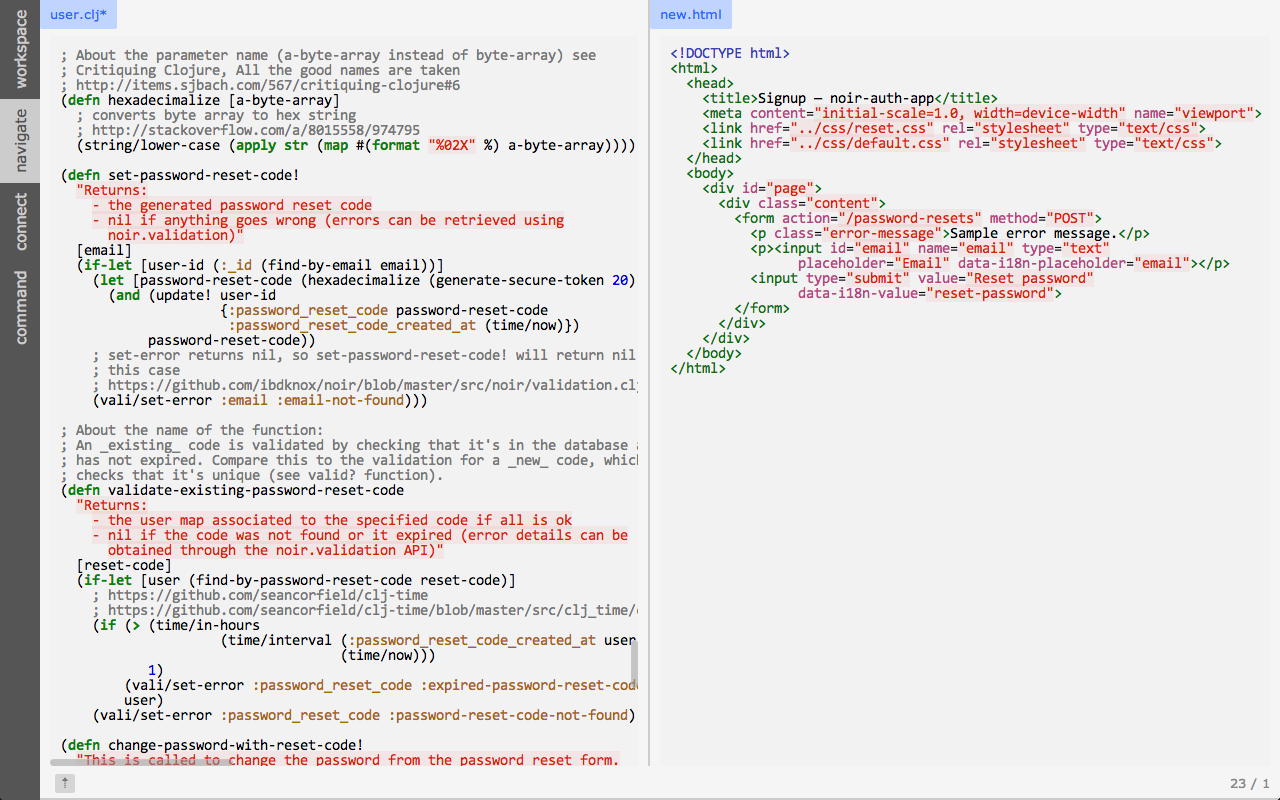
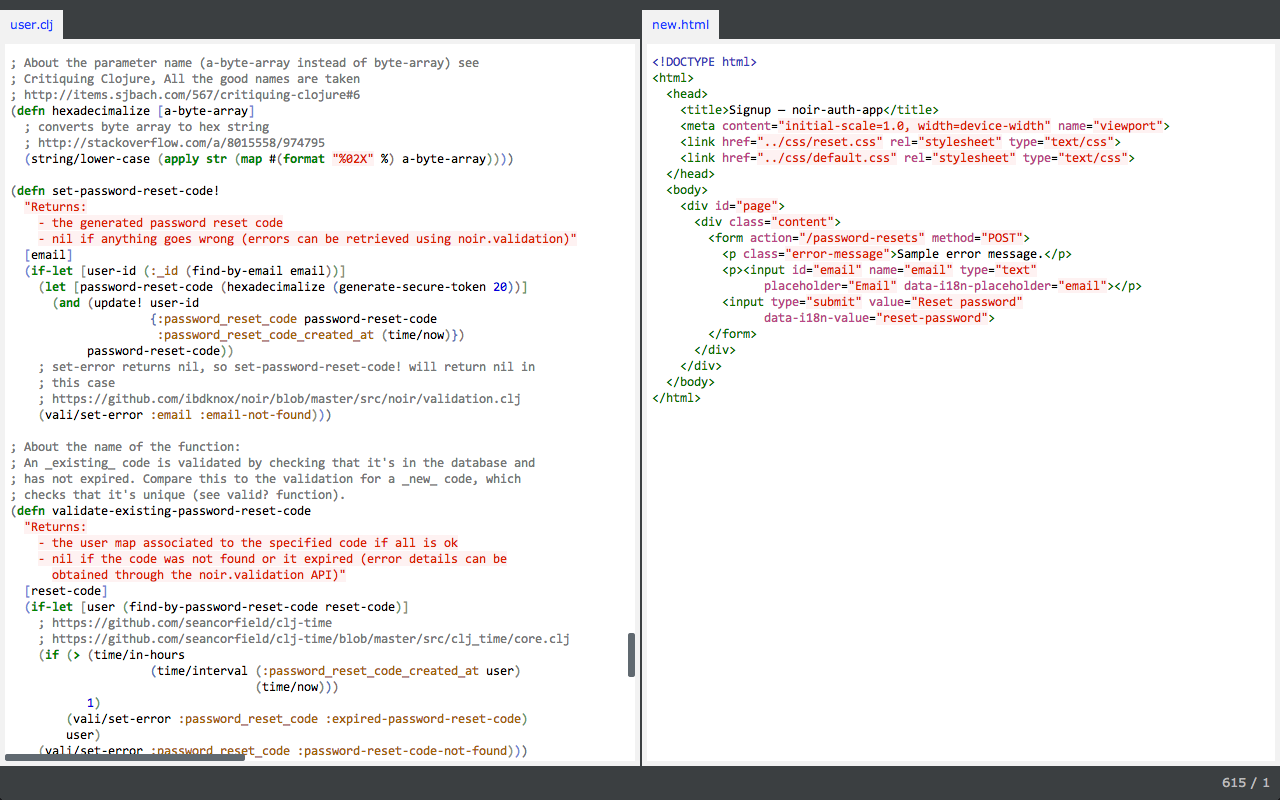
Now available as a plugin for Light Table 0.6

diff --git a/coderay.css b/coderay.css
@@ -1,8 +1,8 @@
-/*
-  Default color.
-  In .clj files this matches var names, ex. the 'v' in (def v 3) .
-*/
-.cm-s-coderay { background-color: #f2f2f2; color: black }
+#multi.theme-coderay .content { background: #f2f2f2; }
+/* tab colors */
+/* #multi.theme-coderay .list .active, #multi.theme-coderay .list li:hover { background: #BFD4FF; color: #213BfF; } */
+#multi.theme-coderay .list .active, #multi.theme-coderay .list li:hover { background: #f2f2f2; color: #213BfF; }
+#multi.theme-coderay .list .dirty { color:#0080FF; }
 
 /*
   In .css files this selector matches property value names like LightGrey, GreenYellow...
@@ -10,37 +10,31 @@
 .cm-s-coderay span.cm-variable-2 { color: #088; }
 
 .cm-s-coderay span.cm-string { background-color: hsla(0,100%,50%,0.05); color: #D20; }
-
 /*
   In .css files this matches property value names like block, auto, relative, right, nowrap...
 */
 .cm-s-coderay span.cm-string-2 { color: #088; }
 .cm-s-coderay span.cm-number { color: #00D; }
 .cm-s-coderay span.cm-bracket { color: black; }
-
 /*
   In .clj files this matches functions/macros like not, nil?, merge...
 */
 .cm-s-coderay span.cm-builtin { color: #080; font-weight: bold; }
-
 /*
   In .html files this matches attribute names like href, class, placeholder...
   In .css files this matches property names like color, height, width...
 */
-.cm-s-coderay span.cm-property, .cm-s-coderay span.cm-attribute { color: #b48; }
-
+.cm-s-coderay span.cm-property { color: #b48; }
+.cm-s-coderay span.cm-attribute { color: #b48; }
 /*
   In .clj files this matches Clojure functions/macros like defn, def, let...
 */
 .cm-s-coderay span.cm-keyword { color: #080; font-weight: bold; }
-
 /*
   In .css file this matches class names like .class-name)
 */
 .cm-s-coderay span.cm-qualifier { color: #B06; font-weight: bold; }
-
 .cm-s-coderay span.cm-comment { color: #777; }
-
 /*
   In .css files this matches directives like @media.
   In .js files this matches function parameters.
@@ -50,7 +44,6 @@
   used for directives in .css too.
 */
 .cm-s-coderay span.cm-def { color: black; }
-
 /*
   In .html files this matches the <!DOCTYPE html> declaration.
 */
@@ -60,7 +53,6 @@
   In .clj files this matches Clojure keywords like :a, :bb...
 */
 .cm-s-coderay span.cm-atom { color: #A60; }
-
 /*
   In .html files this matches tags, like body, code...
   In .css files this matches HTML tags when used as selectors, ex. body, code...
@@ -71,30 +63,41 @@
  */
 .cm-s-coderay span.cm-tag { color: #070; }
 
-.cm-s-coderay span.CodeMirror-searching { background: #aaa; color: black; }
-.cm-s-coderay span.CodeMirror-searching-active { background: #afa; color: black; }
+.cm-s-coderay div.CodeMirror-cursor { border-left: 4px solid rgb(0,174,255); }
+.cm-s-coderay .CodeMirror-activeline-background {background: #e8f2ff !important;}
+.cm-s-coderay .CodeMirror-matchingbracket {outline:1px solid grey;color:black !important;background:yellow;}
 
-.cm-s-coderay .CodeMirror-selected { background: #bfd4ff; }
-.cm-s-coderay .CodeMirror-focused .CodeMirror-selected { background: #444; }
+/* https://groups.google.com/d/msg/light-table-discussion/LXKixpzNmZM/bOPo_9ls4wIJ */
+.cm-s-coderay .cm-searching { background: yellow; border-radius:0px; color: black !important; }
+.cm-s-coderay .searching-current { background: orange; color: black !important; }
+/*
+  The next 2 rules are necessary for the matches contained in strings, which
+  are displayed with its own background color, to be highlighted with the same
+  background color as matches (guess the default rules don't work because
+  they are not specific enough
+*/
+.cm-s-coderay span.cm-string.cm-searching { background: yellow; border-radius:0px; color: black !important; }
+.cm-s-coderay span.cm-string.searching-current  { background: orange; color: black !important; }
 
-.cm-s-coderay span.cm-SUBST { color: #FF1F69; }
 
 /*
- 2nd level brackets (parens, square or curly brackets)
- (1st level being the outermost ones)
- (replace the '2' with another number to match brackets nested at that level)
+  https://github.com/LightTable/Rainbow/blob/master/colors.css
+  Rainbow colors for light themes from
+  https://raw2.github.com/jlr/rainbow-delimiters/master/rainbow-delimiters.el
 */
-.cm-s-coderay span.cm-bracket2 { color: black; }
+/* Unmatched delimiter */
+.cm-s-coderay span.cm-rainbow.cm-bracket {color: red;}
+.cm-s-coderay span.cm-rainbow.cm-bracket.cm-bracket1 {color: #707183;}
+.cm-s-coderay span.cm-rainbow.cm-bracket.cm-bracket2 {color: #7388d6;}
+.cm-s-coderay span.cm-rainbow.cm-bracket.cm-bracket3 {color: #909183;}
+.cm-s-coderay span.cm-rainbow.cm-bracket.cm-bracket4 {color: #709870;}
+.cm-s-coderay span.cm-rainbow.cm-bracket.cm-bracket5 {color: #907373;}
+.cm-s-coderay span.cm-rainbow.cm-bracket.cm-bracket6 {color: #6276ba;}
+.cm-s-coderay span.cm-rainbow.cm-bracket.cm-bracket7 {color: #858580;}
+.cm-s-coderay span.cm-rainbow.cm-bracket.cm-bracket8 {color: #80a880;}
+.cm-s-coderay span.cm-rainbow.cm-bracket.cm-bracket9 {color: #887070;}
+.cm-s-coderay span.cm-rainbow.cm-bracket.cm-bracket10 {color: #887070;}  /* from here, same color as before */
+.cm-s-coderay span.cm-rainbow.cm-bracket.cm-bracket11 {color: #887070;}
+.cm-s-coderay span.cm-rainbow.cm-bracket.cm-bracket12 {color: #887070;}
+.cm-s-coderay span.cm-rainbow.cm-bracket.cm-bracket13 {color: #887070;}  /* 1 more level than in the default theme */
 
-.cm-s-coderay span.CodeMirror-matchingbracket { box-sizing: border-box; background: transparent; border-bottom: 1px solid black; }
-.cm-s-coderay span.CodeMirror-nonmatchingbracket { color: #F33; border-bottom: 1px solid #F33; background: none; }
-
-.cm-s-coderay .cm-searching { background: #5f5f5f; border-radius: 2px; color: #eee !important; }
-.cm-s-coderay .searching-current { background: #13879C; color: #BFFCFF !important; }
-
-.CodeMirror div.CodeMirror-cursor { border-left: 1px solid black; }
-/* Shown when moving in bi-directional text */
-.CodeMirror div.CodeMirror-secondarycursor { border-left: 1px solid red; }
-.CodeMirror.cm-keymap-fat-cursor div.CodeMirror-cursor { width: auto; border: none !important; background: rgba(0, 200, 200, .4); }
-
-.CodeMirror-gutters { background: #202020; border-right: 1px solid #444; }

diff --git a/README.md b/README.md
@@ -1,13 +1,8 @@
 A theme for [Light Table](http://www.lighttable.com) based on [CodeRay](http://coderay.rubychan.de)'s default [Alpha theme](https://github.com/rubychan/coderay/blob/master/lib/coderay/styles/alpha.rb).
 
-To install copy the coderay.css file to `~/.lighttable/css/themes/`, then you can choose the theme in Light Table using the `Style: Change editor theme` command.
+To install, use Light Table's "Plugins: Show plugin manager" command. You'll find the plugin/theme by the name of "CodeRay theme".
 
-This theme works better with Light Table's light skin. You can use the
-`Style: Change skin` command to change the skin.
-
-The theme provides sensible syntax highlighting for Clojure/ClojureScript, HTML, CSS, and JavaScript. It has not been checked with Python source code.
-
-You can [use Light Table to **live-edit** themes](https://coderwall.com/p/acmhla) like this or create your own.
+The theme provides sensible syntax highlighting for Clojure/ClojureScript, HTML, CSS, and JavaScript. It has not been checked with source code in other languages.
 
 
 <img src="https://raw.github.com/xavi/coderay-lighttable-theme/master/screenshot.png">
